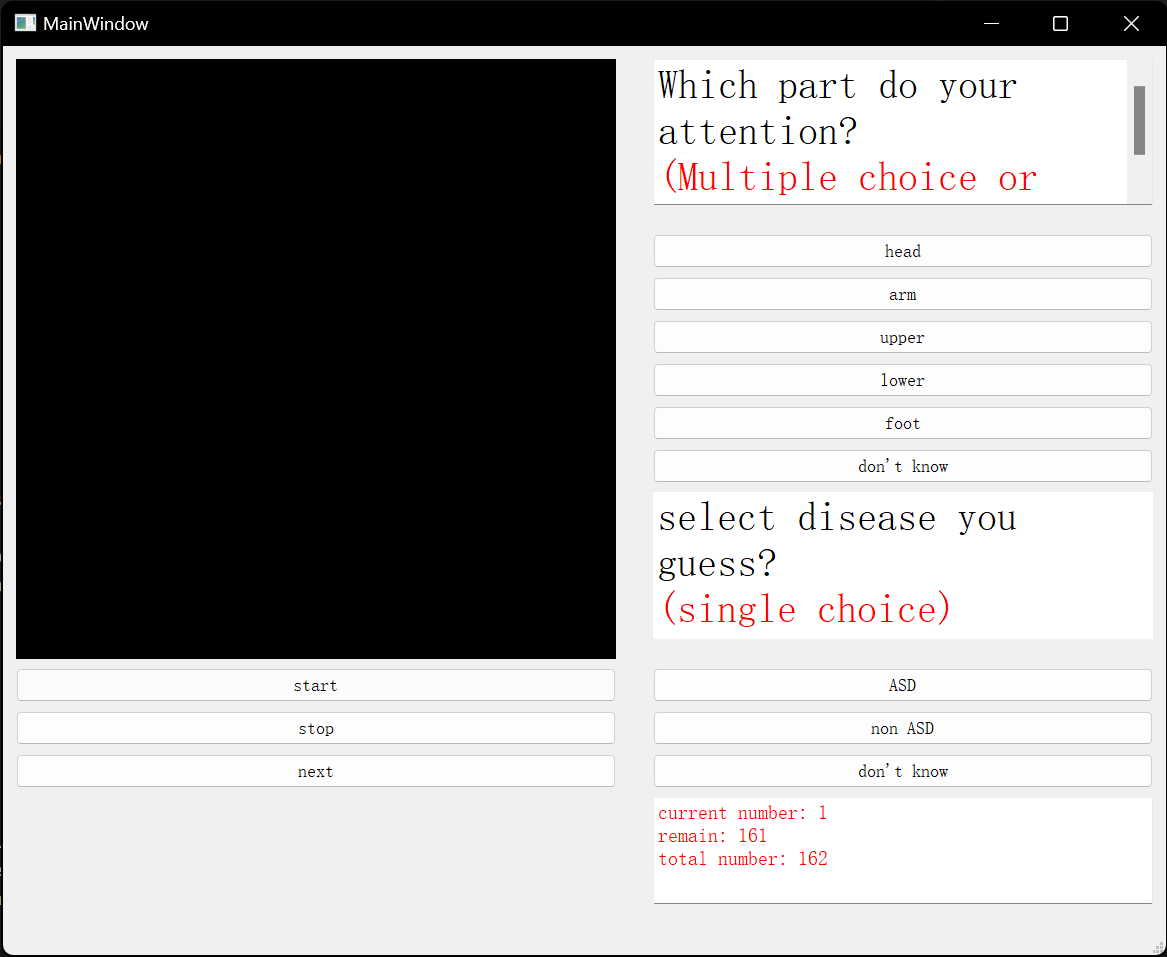
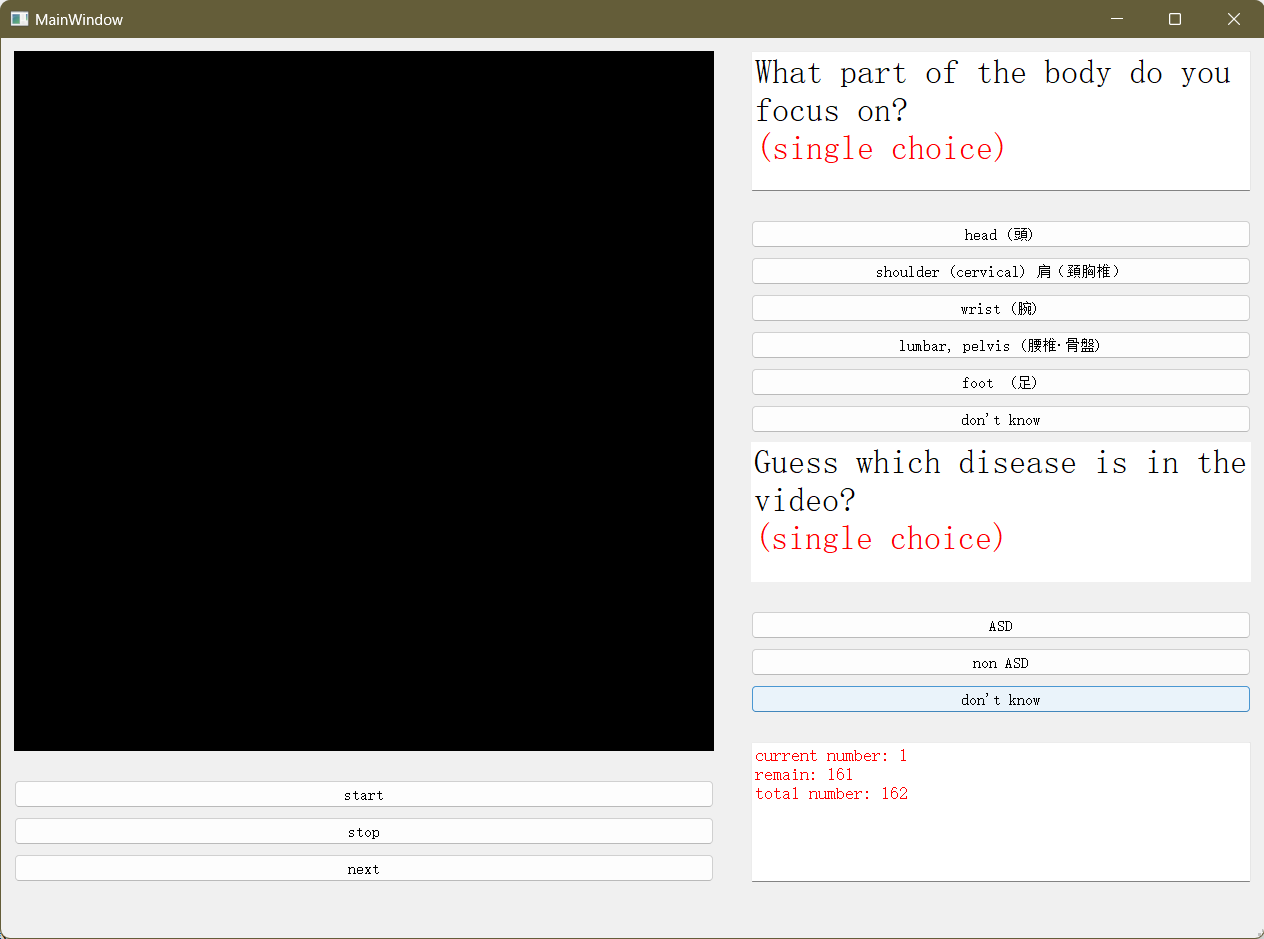
change the GUI text and fix some bug

diff --git a/UI/GUI.py b/UI/GUI.py
@@ -1,6 +1,6 @@
 # -*- coding: utf-8 -*-
 
-# Form implementation generated from reading ui file 'GUI.ui'
+# Form implementation generated from reading ui file 'UI/GUI.ui'
 #
 # Created by: PyQt5 UI code generator 5.15.9
 #
@@ -16,7 +16,7 @@ from PyQt5.QtCore import pyqtSignal
 class Ui_MainWindow(object):
     def setupUi(self, MainWindow):
         MainWindow.setObjectName("MainWindow")
-        MainWindow.resize(1152, 771)
+        MainWindow.resize(1254, 839)
         self.centralwidget = QtWidgets.QWidget(MainWindow)
         self.centralwidget.setObjectName("centralwidget")
         self.gridLayout_2 = QtWidgets.QGridLayout(self.centralwidget)
@@ -34,18 +34,18 @@ class Ui_MainWindow(object):
         self.head_btn.setCheckable(True)
         self.head_btn.setObjectName("head_btn")
         self.verticalLayout_2.addWidget(self.head_btn)
-        self.arm_btn = QtWidgets.QPushButton(self.centralwidget)
-        self.arm_btn.setCheckable(True)
-        self.arm_btn.setObjectName("arm_btn")
-        self.verticalLayout_2.addWidget(self.arm_btn)
-        self.upper_btn = QtWidgets.QPushButton(self.centralwidget)
-        self.upper_btn.setCheckable(True)
-        self.upper_btn.setObjectName("upper_btn")
-        self.verticalLayout_2.addWidget(self.upper_btn)
-        self.lower_btn = QtWidgets.QPushButton(self.centralwidget)
-        self.lower_btn.setCheckable(True)
-        self.lower_btn.setObjectName("lower_btn")
-        self.verticalLayout_2.addWidget(self.lower_btn)
+        self.shoulder_btn = QtWidgets.QPushButton(self.centralwidget)
+        self.shoulder_btn.setCheckable(True)
+        self.shoulder_btn.setObjectName("shoulder_btn")
+        self.verticalLayout_2.addWidget(self.shoulder_btn)
+        self.wrist_btn = QtWidgets.QPushButton(self.centralwidget)
+        self.wrist_btn.setCheckable(True)
+        self.wrist_btn.setObjectName("wrist_btn")
+        self.verticalLayout_2.addWidget(self.wrist_btn)
+        self.lumbar_pelvis_btn = QtWidgets.QPushButton(self.centralwidget)
+        self.lumbar_pelvis_btn.setCheckable(True)
+        self.lumbar_pelvis_btn.setObjectName("lumbar_pelvis_btn")
+        self.verticalLayout_2.addWidget(self.lumbar_pelvis_btn)
         self.foot_btn = QtWidgets.QPushButton(self.centralwidget)
         self.foot_btn.setCheckable(True)
         self.foot_btn.setObjectName("foot_btn")
@@ -89,16 +89,28 @@ class Ui_MainWindow(object):
         self.disease_unknown_btn.setCheckable(True)
         self.disease_unknown_btn.setObjectName("disease_unknown_btn")
         self.verticalLayout_2.addWidget(self.disease_unknown_btn)
+        spacerItem2 = QtWidgets.QSpacerItem(40, 20, QtWidgets.QSizePolicy.Expanding, QtWidgets.QSizePolicy.Minimum)
+        self.verticalLayout_2.addItem(spacerItem2)
+        self.textBrowser = QtWidgets.QTextBrowser(self.centralwidget)
+        self.textBrowser.setEnabled(True)
+        self.textBrowser.setMinimumSize(QtCore.QSize(100, 100))
+        self.textBrowser.setObjectName("textBrowser")
+        self.verticalLayout_2.addWidget(self.textBrowser)
         self.gridLayout_2.addLayout(self.verticalLayout_2, 0, 5, 1, 1)
-        spacerItem2 = QtWidgets.QSpacerItem(28, 498, QtWidgets.QSizePolicy.Minimum, QtWidgets.QSizePolicy.Expanding)
-        self.gridLayout_2.addItem(spacerItem2, 0, 4, 3, 1)
+        spacerItem3 = QtWidgets.QSpacerItem(28, 498, QtWidgets.QSizePolicy.Minimum, QtWidgets.QSizePolicy.Expanding)
+        self.gridLayout_2.addItem(spacerItem3, 0, 4, 3, 1)
         self.verticalLayout = QtWidgets.QVBoxLayout()
         self.verticalLayout.setObjectName("verticalLayout")
+        self.verticalLayout_5 = QtWidgets.QVBoxLayout()
+        self.verticalLayout_5.setObjectName("verticalLayout_5")
         self.wgt_video = myVideoWidget(self.centralwidget)
         self.wgt_video.setEnabled(True)
-        self.wgt_video.setMinimumSize(QtCore.QSize(600, 600))
+        self.wgt_video.setMinimumSize(QtCore.QSize(700, 700))
         self.wgt_video.setObjectName("wgt_video")
-        self.verticalLayout.addWidget(self.wgt_video)
+        self.verticalLayout_5.addWidget(self.wgt_video)
+        self.verticalLayout.addLayout(self.verticalLayout_5)
+        spacerItem4 = QtWidgets.QSpacerItem(40, 20, QtWidgets.QSizePolicy.Expanding, QtWidgets.QSizePolicy.Minimum)
+        self.verticalLayout.addItem(spacerItem4)
         self.start_button = QtWidgets.QPushButton(self.centralwidget)
         self.start_button.setObjectName("start_button")
         self.verticalLayout.addWidget(self.start_button)
@@ -109,13 +121,9 @@ class Ui_MainWindow(object):
         self.next_button.setObjectName("next_button")
         self.verticalLayout.addWidget(self.next_button)
         self.gridLayout_2.addLayout(self.verticalLayout, 0, 0, 1, 2)
-        self.textBrowser = QtWidgets.QTextBrowser(self.centralwidget)
-        self.textBrowser.setEnabled(True)
-        self.textBrowser.setObjectName("textBrowser")
-        self.gridLayout_2.addWidget(self.textBrowser, 1, 5, 1, 1)
         MainWindow.setCentralWidget(self.centralwidget)
         self.menubar = QtWidgets.QMenuBar(MainWindow)
-        self.menubar.setGeometry(QtCore.QRect(0, 0, 1152, 18))
+        self.menubar.setGeometry(QtCore.QRect(0, 0, 1254, 18))
         self.menubar.setObjectName("menubar")
         MainWindow.setMenuBar(self.menubar)
         self.statusbar = QtWidgets.QStatusBar(MainWindow)
@@ -132,35 +140,35 @@ class Ui_MainWindow(object):
 "<html><head><meta name=\"qrichtext\" content=\"1\" /><style type=\"text/css\">\n"
 "p, li { white-space: pre-wrap; }\n"
 "</style></head><body style=\" font-family:\'SimSun\'; font-size:9pt; font-weight:400; font-style:normal;\">\n"
-"<p style=\" margin-top:0px; margin-bottom:0px; margin-left:0px; margin-right:0px; -qt-block-indent:0; text-indent:0px;\"><span style=\" font-size:20pt;\">Which part do your attention?</span></p>\n"
-"<p style=\" margin-top:0px; margin-bottom:0px; margin-left:0px; margin-right:0px; -qt-block-indent:0; text-indent:0px;\"><span style=\" font-size:20pt; color:#ff0000;\">(Multiple choice or don\'t know)</span></p></body></html>"))
-        self.head_btn.setText(_translate("MainWindow", "head"))
-        self.arm_btn.setText(_translate("MainWindow", "arm"))
-        self.upper_btn.setText(_translate("MainWindow", "upper"))
-        self.lower_btn.setText(_translate("MainWindow", "lower"))
-        self.foot_btn.setText(_translate("MainWindow", "foot"))
+"<p style=\" margin-top:0px; margin-bottom:0px; margin-left:0px; margin-right:0px; -qt-block-indent:0; text-indent:0px;\"><span style=\" font-size:20pt;\">What part of the body do you focus on?</span></p>\n"
+"<p style=\" margin-top:0px; margin-bottom:0px; margin-left:0px; margin-right:0px; -qt-block-indent:0; text-indent:0px;\"><span style=\" font-size:20pt; color:#ff0000;\">(single choice)</span></p></body></html>"))
+        self.head_btn.setText(_translate("MainWindow", "head (頭)"))
+        self.shoulder_btn.setText(_translate("MainWindow", "shoulder (cervical) 肩（頚胸椎）"))
+        self.wrist_btn.setText(_translate("MainWindow", "wrist (腕)"))
+        self.lumbar_pelvis_btn.setText(_translate("MainWindow", "lumbar, pelvis (腰椎・骨盤)"))
+        self.foot_btn.setText(_translate("MainWindow", "foot　(足)"))
         self.focus_unkonwn_btn.setText(_translate("MainWindow", "don\'t know"))
         self.disease_text.setHtml(_translate("MainWindow", "<!DOCTYPE HTML PUBLIC \"-//W3C//DTD HTML 4.0//EN\" \"http://www.w3.org/TR/REC-html40/strict.dtd\">\n"
 "<html><head><meta name=\"qrichtext\" content=\"1\" /><style type=\"text/css\">\n"
 "p, li { white-space: pre-wrap; }\n"
 "</style></head><body style=\" font-family:\'Agency FB\'; font-size:10pt; font-weight:400; font-style:normal;\">\n"
-"<p style=\" margin-top:0px; margin-bottom:0px; margin-left:0px; margin-right:0px; -qt-block-indent:0; text-indent:0px;\"><span style=\" font-family:\'SimSun\'; font-size:20pt;\">select disease you guess?</span></p>\n"
+"<p style=\" margin-top:0px; margin-bottom:0px; margin-left:0px; margin-right:0px; -qt-block-indent:0; text-indent:0px;\"><span style=\" font-family:\'SimSun\'; font-size:20pt;\">Guess which disease is in the video?</span></p>\n"
 "<p style=\" margin-top:0px; margin-bottom:0px; margin-left:0px; margin-right:0px; -qt-block-indent:0; text-indent:0px;\"><span style=\" font-family:\'SimSun\'; font-size:20pt; color:#ff0000;\">(single choice)</span></p></body></html>"))
         self.asd_btn.setText(_translate("MainWindow", "ASD"))
         self.non_asd_btn.setText(_translate("MainWindow", "non ASD"))
         self.disease_unknown_btn.setText(_translate("MainWindow", "don\'t know"))
-        self.wgt_video.setWhatsThis(_translate("MainWindow", "video player"))
-        self.start_button.setText(_translate("MainWindow", "start"))
-        self.stop_button.setText(_translate("MainWindow", "stop"))
-        self.next_button.setText(_translate("MainWindow", "next"))
         self.textBrowser.setHtml(_translate("MainWindow", "<!DOCTYPE HTML PUBLIC \"-//W3C//DTD HTML 4.0//EN\" \"http://www.w3.org/TR/REC-html40/strict.dtd\">\n"
 "<html><head><meta name=\"qrichtext\" content=\"1\" /><style type=\"text/css\">\n"
 "p, li { white-space: pre-wrap; }\n"
 "</style></head><body style=\" font-family:\'SimSun\'; font-size:9pt; font-weight:400; font-style:normal;\">\n"
-"<p style=\" margin-top:0px; margin-bottom:0px; margin-left:0px; margin-right:0px; -qt-block-indent:0; text-indent:0px;\"><span style=\" font-size:10pt; color:#ff0000;\">current:</span></p>\n"
-"<p style=\" margin-top:0px; margin-bottom:0px; margin-left:0px; margin-right:0px; -qt-block-indent:0; text-indent:0px;\"><span style=\" font-size:10pt; color:#ff0000;\">total:</span></p>\n"
-"<p style=\" margin-top:0px; margin-bottom:0px; margin-left:0px; margin-right:0px; -qt-block-indent:0; text-indent:0px;\"><span style=\" font-size:10pt; color:#ff0000;\">remain:</span></p>\n"
-"<p style=\"-qt-paragraph-type:empty; margin-top:0px; margin-bottom:0px; margin-left:0px; margin-right:0px; -qt-block-indent:0; text-indent:0px; font-size:10pt; color:#ff0000;\"><br /></p></body></html>"))
+"<p style=\" margin-top:0px; margin-bottom:0px; margin-left:0px; margin-right:0px; -qt-block-indent:0; text-indent:0px;\"><span style=\" font-size:20pt; color:#ff0000;\">current:</span></p>\n"
+"<p style=\" margin-top:0px; margin-bottom:0px; margin-left:0px; margin-right:0px; -qt-block-indent:0; text-indent:0px;\"><span style=\" font-size:20pt; color:#ff0000;\">total:</span></p>\n"
+"<p style=\" margin-top:0px; margin-bottom:0px; margin-left:0px; margin-right:0px; -qt-block-indent:0; text-indent:0px;\"><span style=\" font-size:20pt; color:#ff0000;\">remain:</span></p>\n"
+"<p style=\"-qt-paragraph-type:empty; margin-top:0px; margin-bottom:0px; margin-left:0px; margin-right:0px; -qt-block-indent:0; text-indent:0px; font-size:20pt; color:#ff0000;\"><br /></p></body></html>"))
+        self.wgt_video.setWhatsThis(_translate("MainWindow", "video player"))
+        self.start_button.setText(_translate("MainWindow", "start"))
+        self.stop_button.setText(_translate("MainWindow", "stop"))
+        self.next_button.setText(_translate("MainWindow", "next"))
 
 class myVideoWidget(QVideoWidget):
     doubleClickedItem = pyqtSignal(str)  # 创建双击信号

diff --git a/main.py b/main.py
@@ -52,9 +52,18 @@ def out_to_csv(info_dict: dict, name:str = 'test'):
     localtime = time.strftime("%Y-%m-%d-%H-%M-%S", time.localtime()) 
 
     for key in info_dict.keys():
+        
+        video_file_name = info_dict[key][0].split('\\')[1].rsplit('_', 2)[0]
+        video_number = info_dict[key][0].split('\\')[1].rsplit('_', 2)[1].split('-')[1]
+        flag = info_dict[key][0].split('\\')[1].rsplit('_', 1)[1].split('.')[0]
+
+        info_dict[key].insert(0, video_file_name)
+        info_dict[key].insert(1, video_number)
+        info_dict[key].insert(2, flag)
+
         info_list.append(info_dict[key])
 
-    df = pd.DataFrame(info_list, columns=['path','attention','disease'],dtype=float)
+    df = pd.DataFrame(info_list, columns=['video file name', 'video number', 'flag', 'path','attention','disease'],dtype=str)
     df.to_csv(os.path.join('logs', "%s_%s.csv" % (name, localtime)))
     
     print(df)
@@ -186,22 +195,18 @@ class myMainWindow(Ui_MainWindow,QMainWindow):
             # check btn states.
             attn_total, disease_total = self.check_btn()
 
-            if attn_total == 0:
+            if attn_total != 1:
 
-                QMessageBox.about(self, 'warning', 'Attention should select one or more!')
+                QMessageBox.about(self, 'warning', 'Focus part is single choice!')
                 return
             
-            if disease_total ==0:
-
-                QMessageBox.about(self, 'warning', 'Disease should select one!')
-                return
-
-            if disease_total > 1:
+            if disease_total != 1:
 
                 QMessageBox.about(self, 'warning', 'Disease is single choice!')
                 return
             
             # when next btn clicked, fresh the btn states.
+            # todo
             attn_list, disease_list = self.init_btn()
 
             # save selected btn info.
@@ -231,21 +236,26 @@ class myMainWindow(Ui_MainWindow,QMainWindow):
         disease_list = []
 
         # init attention btn with multi case
-        if self.upper_btn.isChecked():
-            self.upper_btn.setChecked(False)
-            attn_list.append(self.upper_btn.objectName())
-        if self.lower_btn.isChecked():
-            self.lower_btn.setChecked(False)
-            attn_list.append(self.lower_btn.objectName())
         if self.head_btn.isChecked():
             self.head_btn.setChecked(False)
             attn_list.append(self.head_btn.objectName())
-        if self.arm_btn.isChecked():
-            self.arm_btn.setChecked(False)
-            attn_list.append(self.arm_btn.objectName())
+
+        if self.shoulder_btn.isChecked():
+            self.shoulder_btn.setChecked(False)
+            attn_list.append(self.shoulder_btn.objectName())
+            
+        if self.wrist_btn.isChecked():
+            self.wrist_btn.setChecked(False)
+            attn_list.append(self.wrist_btn.objectName())
+
+        if self.lumbar_pelvis_btn.isChecked():
+            self.lumbar_pelvis_btn.setChecked(False)
+            attn_list.append(self.lumbar_pelvis_btn.objectName())
+
         if self.foot_btn.isChecked():
             self.foot_btn.setChecked(False)
             attn_list.append(self.foot_btn.objectName())
+
         if self.focus_unkonwn_btn.isChecked():
             self.focus_unkonwn_btn.setChecked(False)
             attn_list.append(self.focus_unkonwn_btn.objectName())
@@ -275,13 +285,13 @@ class myMainWindow(Ui_MainWindow,QMainWindow):
         disease_total = 0
 
         # init attention btn 
-        if self.upper_btn.isChecked():
-            attn_total += 1
-        if self.lower_btn.isChecked():
-            attn_total += 1
         if self.head_btn.isChecked():
             attn_total += 1
-        if self.arm_btn.isChecked():
+        if self.wrist_btn.isChecked():
+            attn_total += 1
+        if self.shoulder_btn.isChecked():
+            attn_total += 1
+        if self.lumbar_pelvis_btn.isChecked():
             attn_total += 1
         if self.foot_btn.isChecked():
             attn_total += 1

diff --git a/README.md b/README.md
@@ -13,9 +13,9 @@ This project make the interface for Adult Spinal Deformity (ASD), used for docto
 The attention body part include:
 
 - head
-- arm
-- upper
-- lower
+- shoulder (cervical)
+- wrist
+- lumbar, pelvis
 - foot
 - don't konw
 
